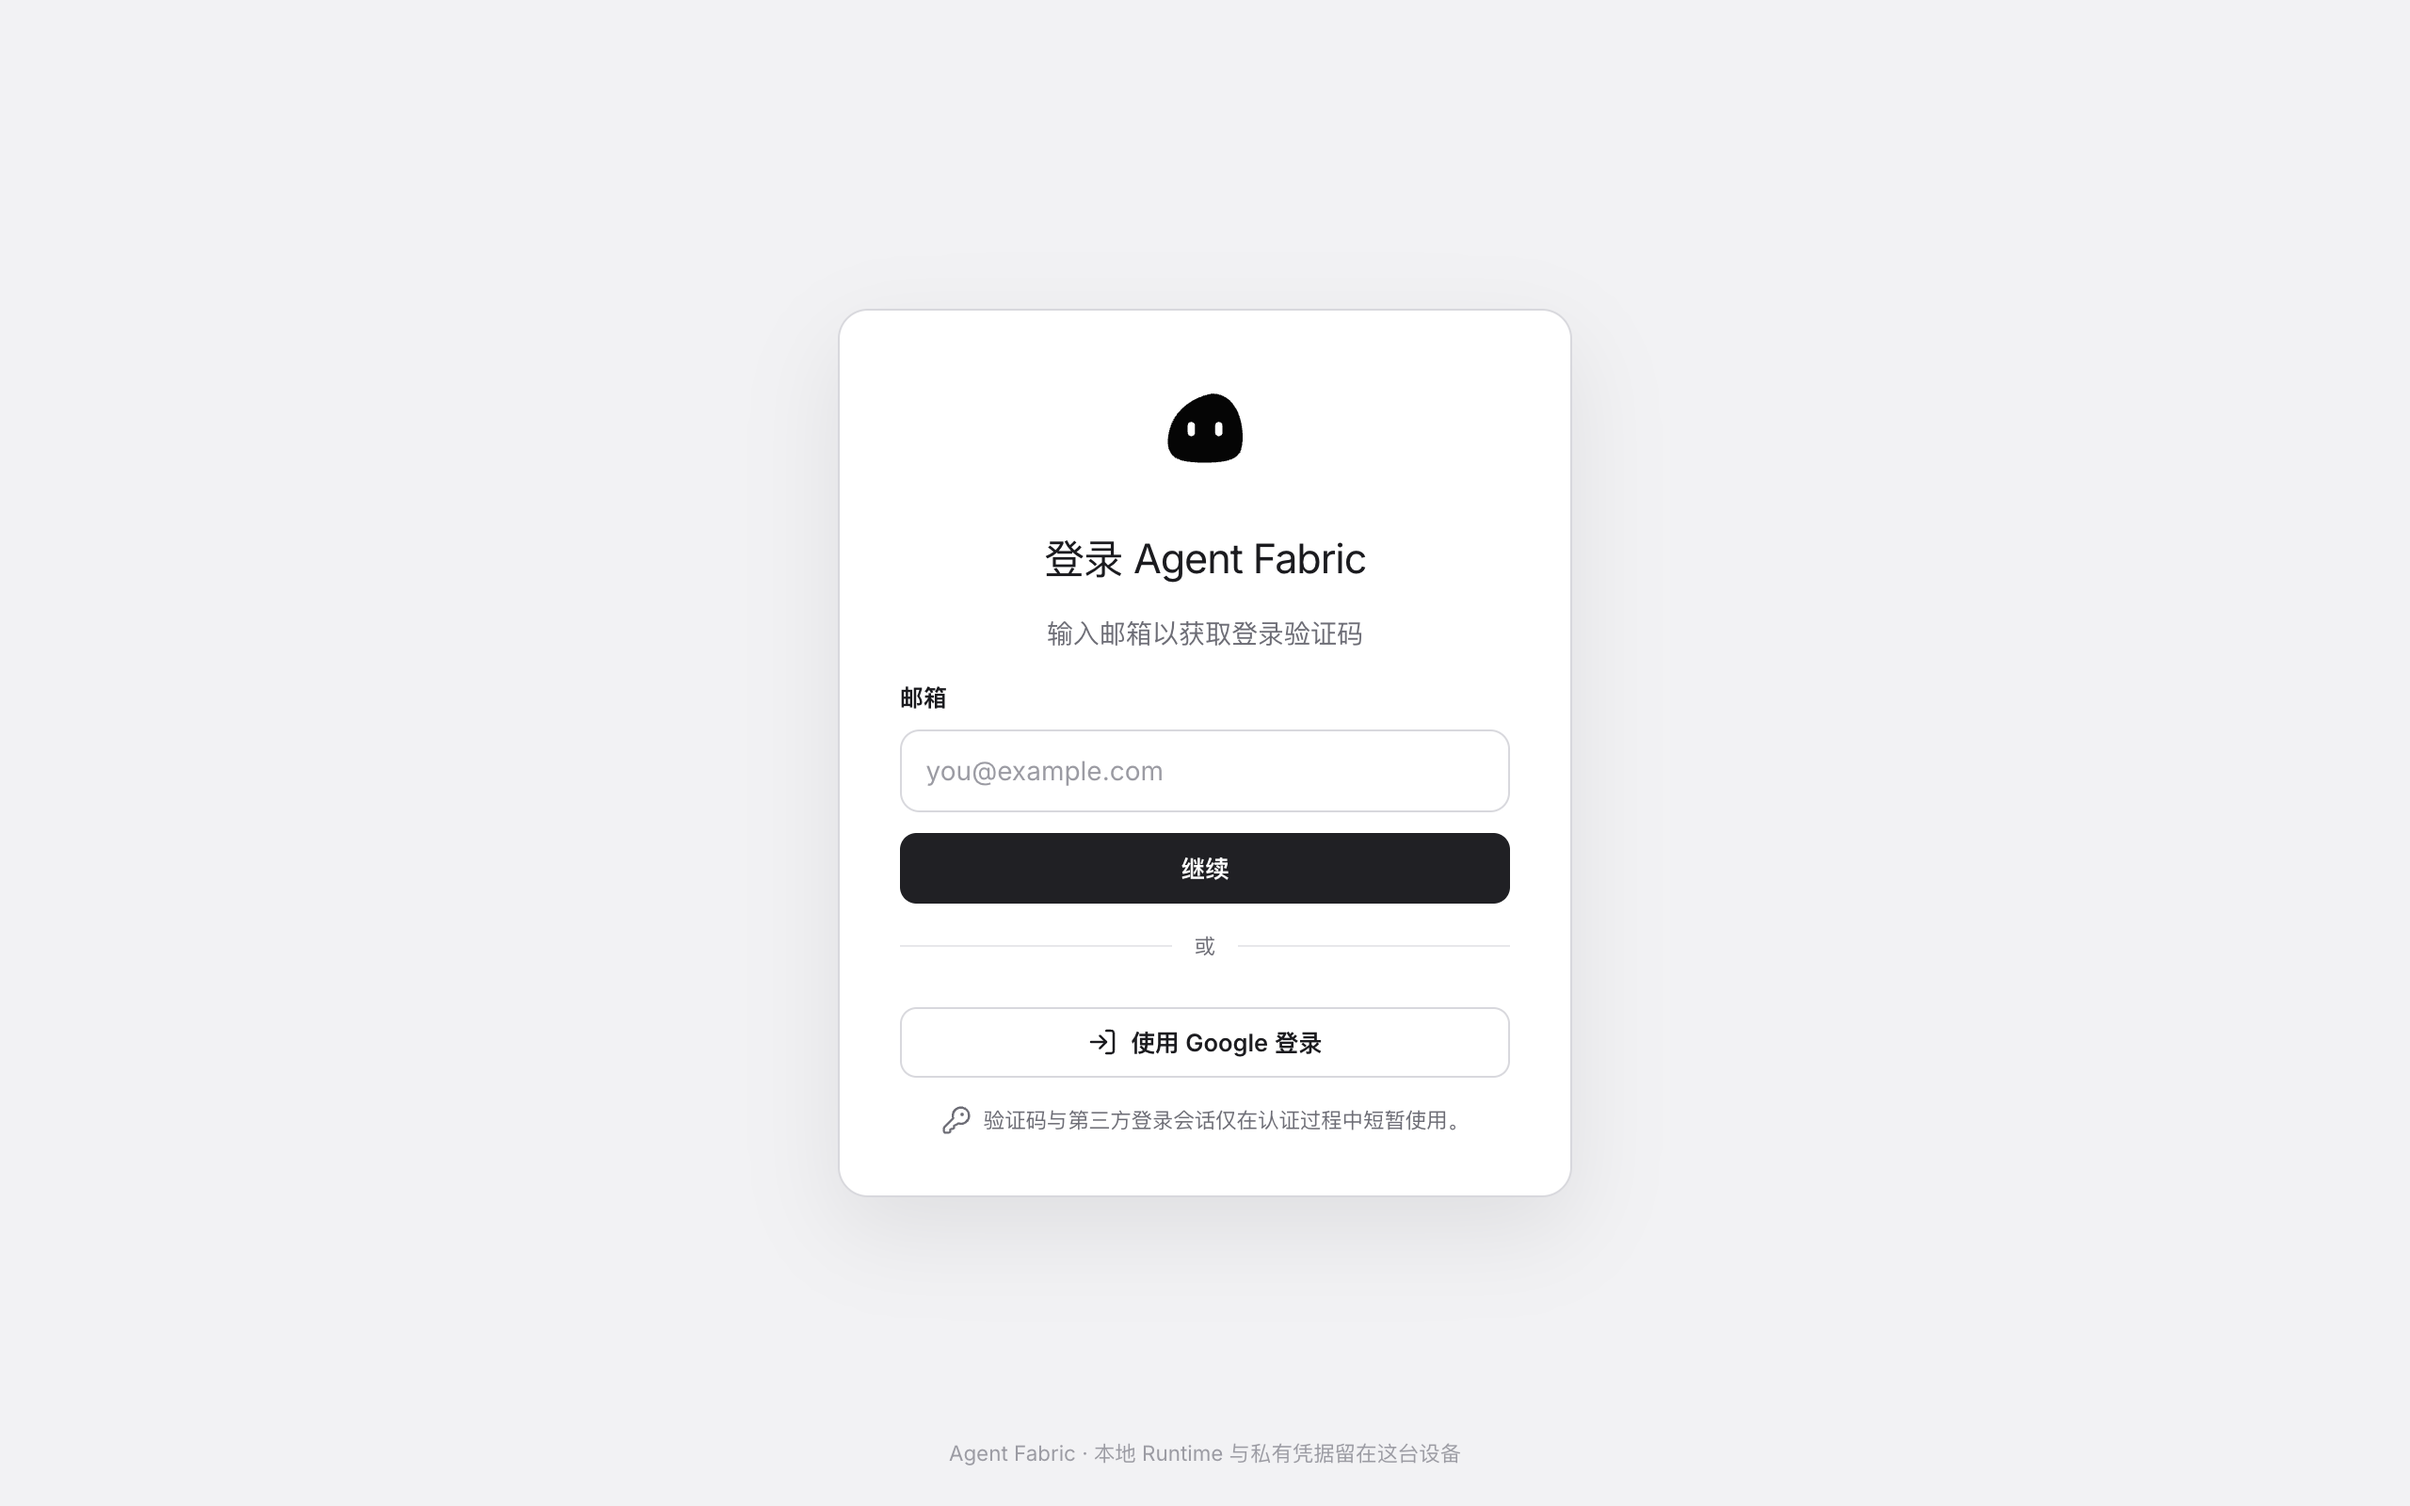
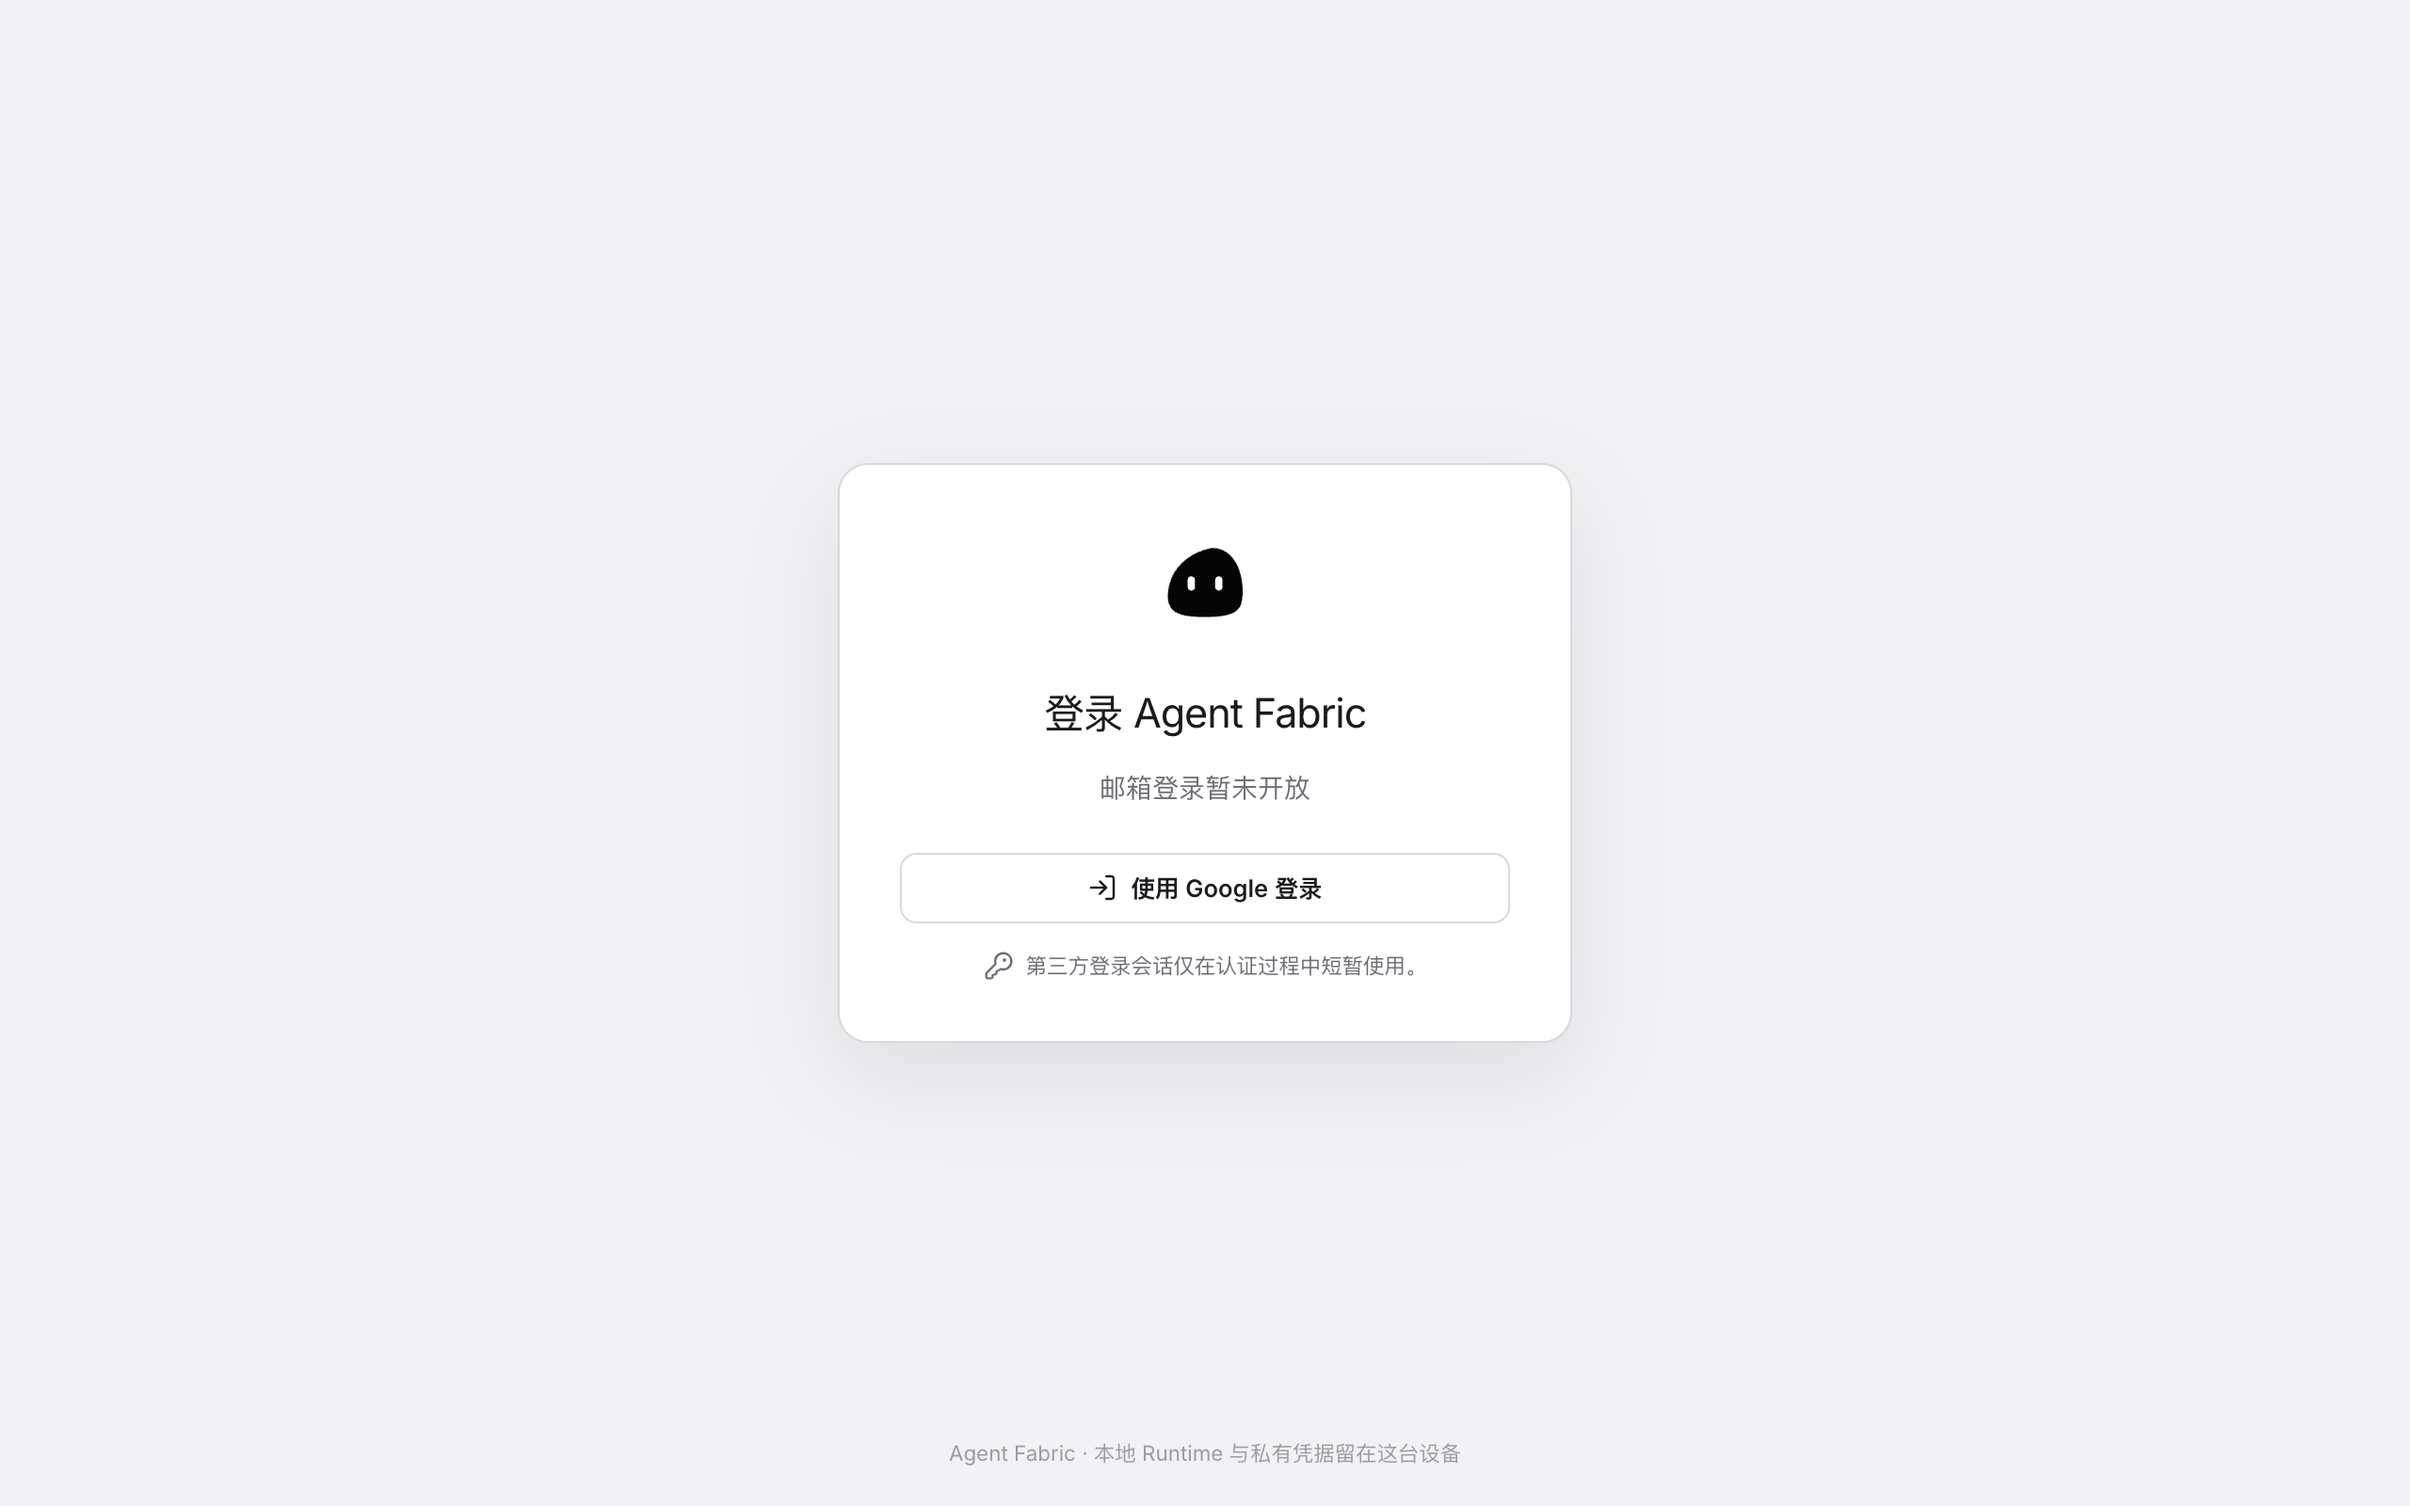
show email login as unavailable

diff --git a/apps/desktop/src/account-product/app.tsx b/apps/desktop/src/account-product/app.tsx
@@ -424,21 +424,8 @@ function DirtyGuardDialog({ busy, onCancel, onDiscard, onSave }: { readonly busy
 function MigrationNotice({ snapshot, run }: { readonly snapshot: AccountProductRendererSnapshot; readonly run: ViewProps["run"] }) { const recovery = snapshot.legacyRecovery; if (recovery.state !== "needs_attention") return null; const complete = () => void run({ type: "legacy-recovery-complete", backupId: recovery.backupId, acknowledgedFields: recovery.unmappedPrivateFields }); return <div className="migration-notice" role="status"><CircleAlert aria-hidden="true" /><span><strong>旧 Agent 已迁移</strong><small>部分私有字段留在本机备份，需要你确认后继续。</small></span><FabricButton tone="quiet" onClick={complete}>确认迁移结果</FabricButton></div>; }
 function BootstrapScreen() { return <main className="bootstrap-screen"><span className="brand-symbol"><AgentFabricMark aria-hidden="true" /></span><div><h1>Agent Fabric</h1><p>正在恢复 Account、Runtime 与智能体目录…</p></div><LoadingRows count={3} /></main>; }
 function LoginScreen({ snapshot, operation, run }: { readonly snapshot: AccountProductRendererSnapshot; readonly operation: AccountProductRendererCommand["type"] | undefined; readonly run: (command: AccountProductRendererCommand) => Promise<import("./ipc.js").AccountProductRendererCommandResult | false> }) {
-  const [email, setEmail] = useState("");
-  const [otp, setOtp] = useState("");
-  const [verification, setVerification] = useState(false);
-  const [resendAt, setResendAt] = useState(0);
-  const [, tick] = useState(0);
-  const busy = Boolean(operation?.startsWith("login-")) || snapshot.session.state === "signing-in";
-  useEffect(() => { if (!verification || resendAt <= Date.now()) return; const timer = window.setInterval(() => tick((value) => value + 1), 1_000); return () => window.clearInterval(timer); }, [verification, resendAt]);
-  const remaining = Math.max(0, Math.ceil((resendAt - Date.now()) / 1_000));
-  const requestCode = async () => {
-    const result = await run({ type: "login-email-request", email: email.trim().toLowerCase() });
-    if (!result || result.type !== "email-code-requested") return;
-    setVerification(true); setResendAt(Date.now() + result.resendAfterSeconds * 1_000); setOtp("");
-  };
-  const submit = (event: FormEvent) => { event.preventDefault(); if (verification) void run({ type: "login-email-verify", email: email.trim().toLowerCase(), otp }); else void requestCode(); };
-  return <main className="login-screen"><section className="login-panel"><span className="brand-symbol"><AgentFabricMark aria-hidden="true" /></span><h1>登录 Agent Fabric</h1><p>{verification ? `验证码已发送至 ${email}` : "输入邮箱以获取登录验证码"}</p><form onSubmit={submit} className="login-form">{verification ? <><label htmlFor="login-otp">六位验证码</label><input id="login-otp" inputMode="numeric" autoComplete="one-time-code" autoFocus maxLength={6} pattern="[0-9]{6}" value={otp} onChange={(event) => setOtp(event.target.value.replace(/\D/gu, "").slice(0, 6))} disabled={busy} /><FabricButton tone="primary" loading={busy} disabled={otp.length !== 6} onClick={() => void run({ type: "login-email-verify", email: email.trim().toLowerCase(), otp })}>{busy ? "正在验证" : "继续"}</FabricButton><div className="login-code-actions"><button type="button" onClick={() => { setVerification(false); setOtp(""); }} disabled={busy}>返回</button><button type="button" onClick={() => void requestCode()} disabled={busy || remaining > 0}>{remaining > 0 ? `${remaining} 秒后重发` : "重新发送"}</button></div></> : <><label htmlFor="login-email">邮箱</label><input id="login-email" type="email" autoComplete="email" autoFocus required placeholder="you@example.com" value={email} onChange={(event) => setEmail(event.target.value)} disabled={busy} /><FabricButton tone="primary" loading={operation === "login-email-request"} onClick={() => void requestCode()}>{operation === "login-email-request" ? "正在发送" : "继续"}</FabricButton></>}</form><div className="login-divider"><span>或</span></div><FabricButton loading={operation === "login-google" || snapshot.session.state === "signing-in"} onClick={() => void run({ type: "login-google" })}><LogIn aria-hidden="true" />{operation === "login-google" || snapshot.session.state === "signing-in" ? "正在完成登录" : "使用 Google 登录"}</FabricButton><small><KeyRound aria-hidden="true" />验证码与第三方登录会话仅在认证过程中短暂使用。</small>{snapshot.errorCode && <div className="login-error" role="alert"><CircleAlert aria-hidden="true" /><span>{loginErrorMessage(snapshot.errorCode)}</span></div>}</section><div className="login-foot">Agent Fabric · 本地 Runtime 与私有凭据留在这台设备</div></main>;
+  const googleBusy = operation === "login-google" || snapshot.session.state === "signing-in";
+  return <main className="login-screen"><section className="login-panel"><span className="brand-symbol"><AgentFabricMark aria-hidden="true" /></span><h1>登录 Agent Fabric</h1><p role="status">邮箱登录暂未开放</p><FabricButton loading={googleBusy} onClick={() => void run({ type: "login-google" })}><LogIn aria-hidden="true" />{googleBusy ? "正在完成登录" : "使用 Google 登录"}</FabricButton><small><KeyRound aria-hidden="true" />第三方登录会话仅在认证过程中短暂使用。</small>{snapshot.errorCode && <div className="login-error" role="alert"><CircleAlert aria-hidden="true" /><span>{loginErrorMessage(snapshot.errorCode)}</span></div>}</section><div className="login-foot">Agent Fabric · 本地 Runtime 与私有凭据留在这台设备</div></main>;
 }
 
 function loginErrorMessage(code: string): string {

diff --git a/apps/desktop/src/account-product/app.test.tsx b/apps/desktop/src/account-product/app.test.tsx
@@ -117,30 +117,13 @@ describe("Account-scoped product Renderer", () => {
     expect(screen.getByRole("button", { name: "批量归档" })).toBeTruthy();
   });
 
-  it("offers a focused ordinary-email flow alongside Google", () => {
+  it("keeps Google login available while ordinary email is not open", () => {
     render(<AccountProductApp bridge={createAccountProductFixtureBridge("login")} />);
     expect(document.querySelector(".brand-symbol [data-agent-fabric-mark]")).toBeTruthy();
     expect(screen.getByRole("button", { name: /使用 Google 登录/u })).toBeTruthy();
-    expect(screen.getByRole("textbox", { name: "邮箱" }).getAttribute("autocomplete")).toBe("email");
-    expect(screen.getByRole("button", { name: "继续" })).toBeTruthy();
-    expect(screen.queryByText(/密码登录/u)).toBeNull();
-  });
-
-  it("validates the six-digit email step and keeps the code out of snapshots", async () => {
-    const commands: unknown[] = [];
-    const bridge = createAccountProductFixtureBridge("login", (command) => commands.push(command));
-    render(<AccountProductApp bridge={bridge} />);
-    fireEvent.change(screen.getByRole("textbox", { name: "邮箱" }), { target: { value: "Alice@Example.com" } });
-    fireEvent.click(screen.getByRole("button", { name: "继续" }));
-    expect(await screen.findByRole("textbox", { name: "六位验证码" })).toBeTruthy();
-    const verify = screen.getByRole("button", { name: "继续" });
-    expect(verify.hasAttribute("disabled")).toBe(true);
-    fireEvent.change(screen.getByRole("textbox", { name: "六位验证码" }), { target: { value: "12a3456" } });
-    expect(screen.getByRole("textbox", { name: "六位验证码" })).toHaveProperty("value", "123456");
-    fireEvent.click(verify);
-    expect(commands).toContainEqual({ type: "login-email-request", email: "alice@example.com" });
-    expect(commands).toContainEqual({ type: "login-email-verify", email: "alice@example.com", otp: "123456" });
-    expect(JSON.stringify(bridge.getSnapshot())).not.toContain("123456");
+    expect(screen.getByRole("status").textContent).toContain("邮箱登录暂未开放");
+    expect(screen.queryByRole("textbox", { name: "邮箱" })).toBeNull();
+    expect(screen.queryByRole("textbox", { name: "六位验证码" })).toBeNull();
   });
 
   it("distinguishes an outdated service from a network failure", () => {
